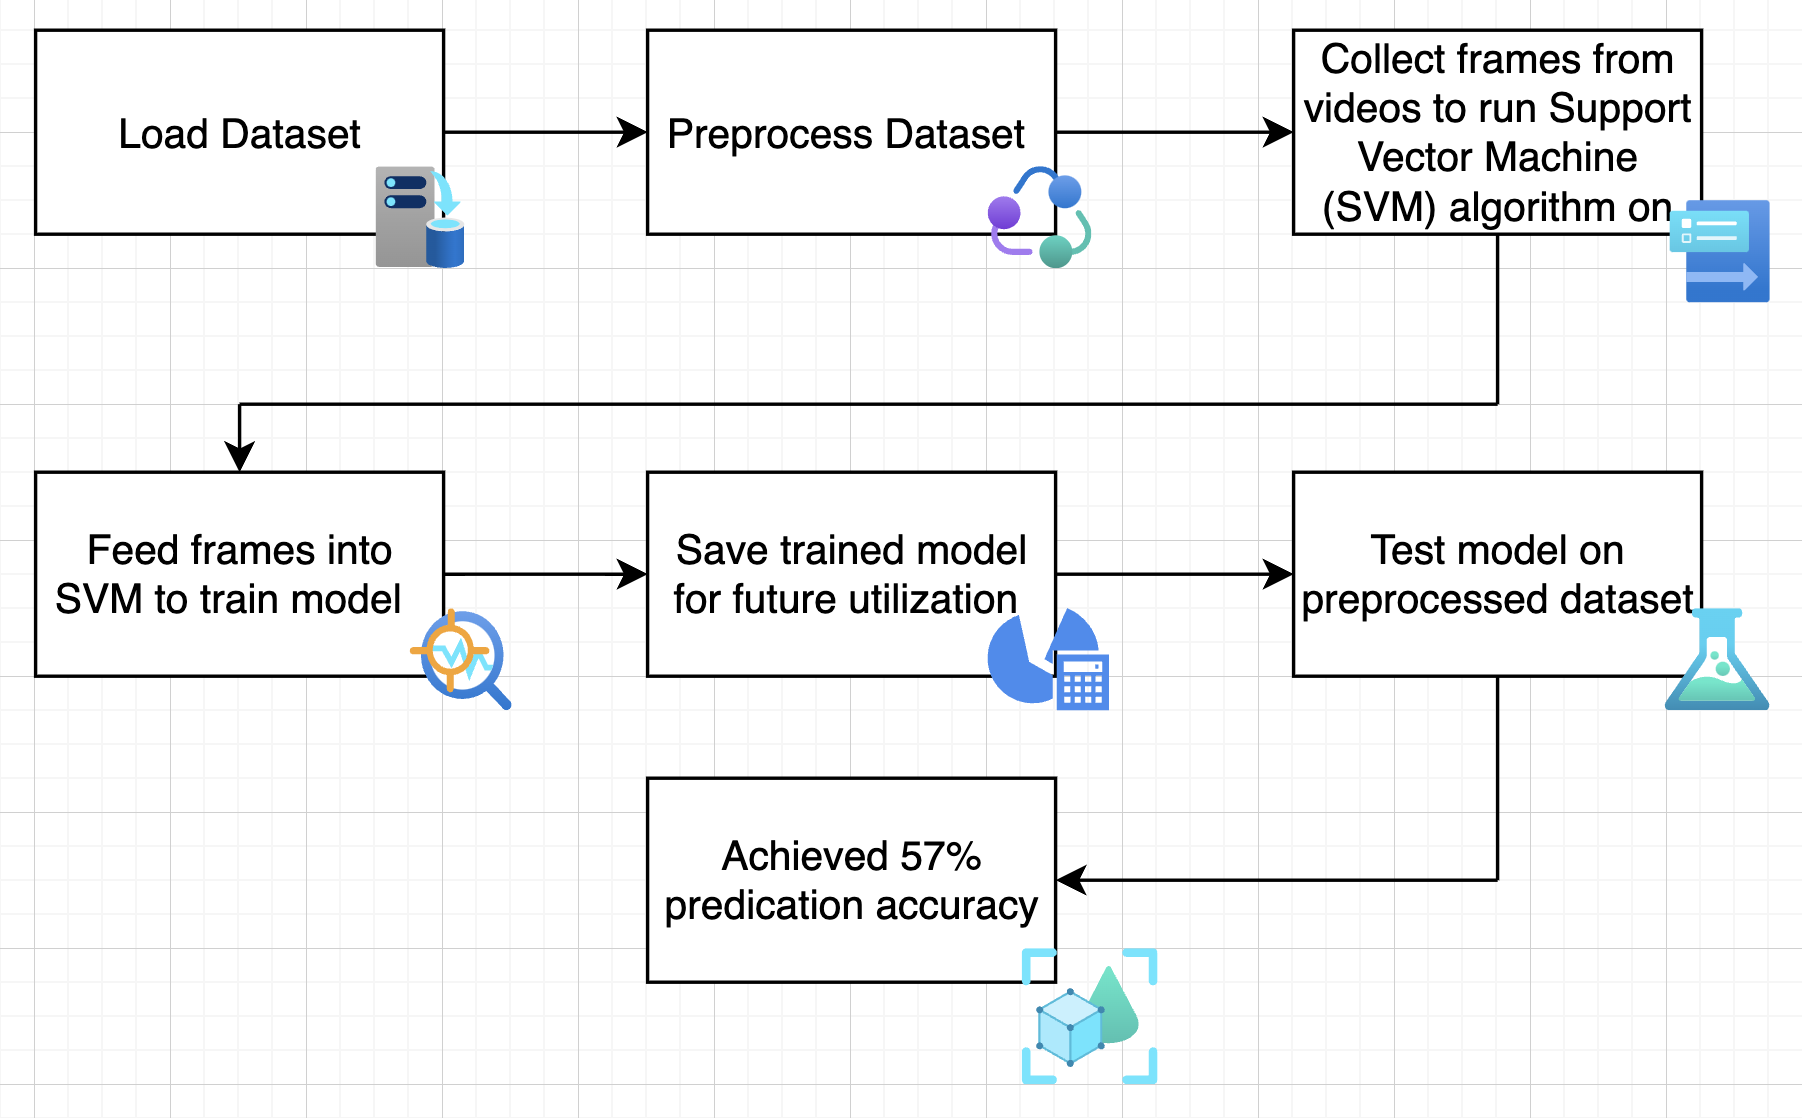
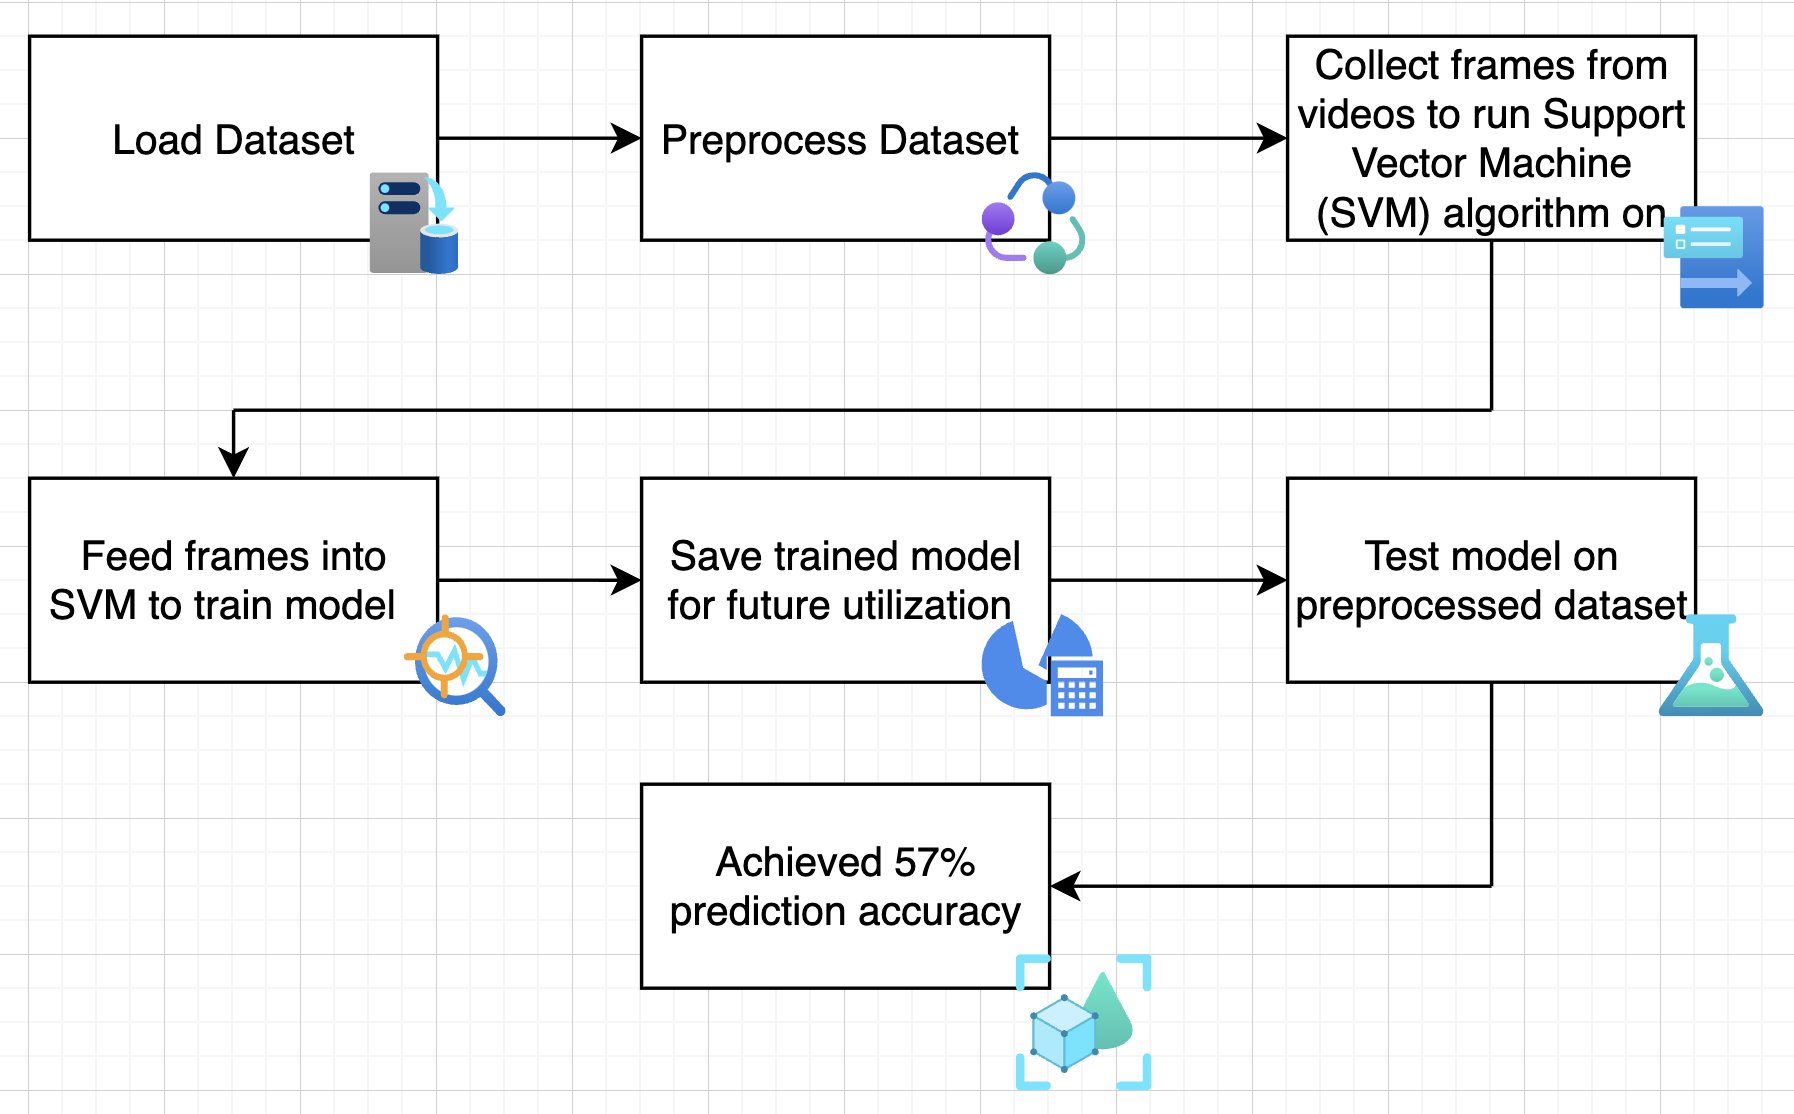
typos

Changed region(s): [[0.0, 0.3357, 0.9989, 0.6409], [0.0, 0.0, 0.9989, 0.2747], [0.3434, 0.6715, 0.8428, 0.9767]]

diff --git a/midterm.html b/midterm.html
@@ -191,7 +191,7 @@
             To reduce dataset size, we will utilize Mask R-CNN (torchvision.models.detection.mask_rcnn.MaskRCNN) to detect areas of frames in which faces are present via pixel-level object segmentation. We will perform voice activity detection using Mel-frequency cepstral coefficients and support vector machines (sklearn.svm.SVC) to identify segments of videos containing speech (parts containing silence will not likely improve classification ability) [7].
           </p>
           <p>
-            Once we have completed that we plan to create a visualization to better illustrate the steps and our data processing. We plan to incorporate a flow diagram that shows the process of the data preprocessing to feeding the information into the model. We also plan to show a heatmap to show the compression done on each of the features. 
+            Once we have completed we created a visualization to better illustrate the steps and our data processing. We incorporated a flow chart that shows the process of the data preprocessing to feeding the information into the model. 
           </p>
         </div>
       </div>
